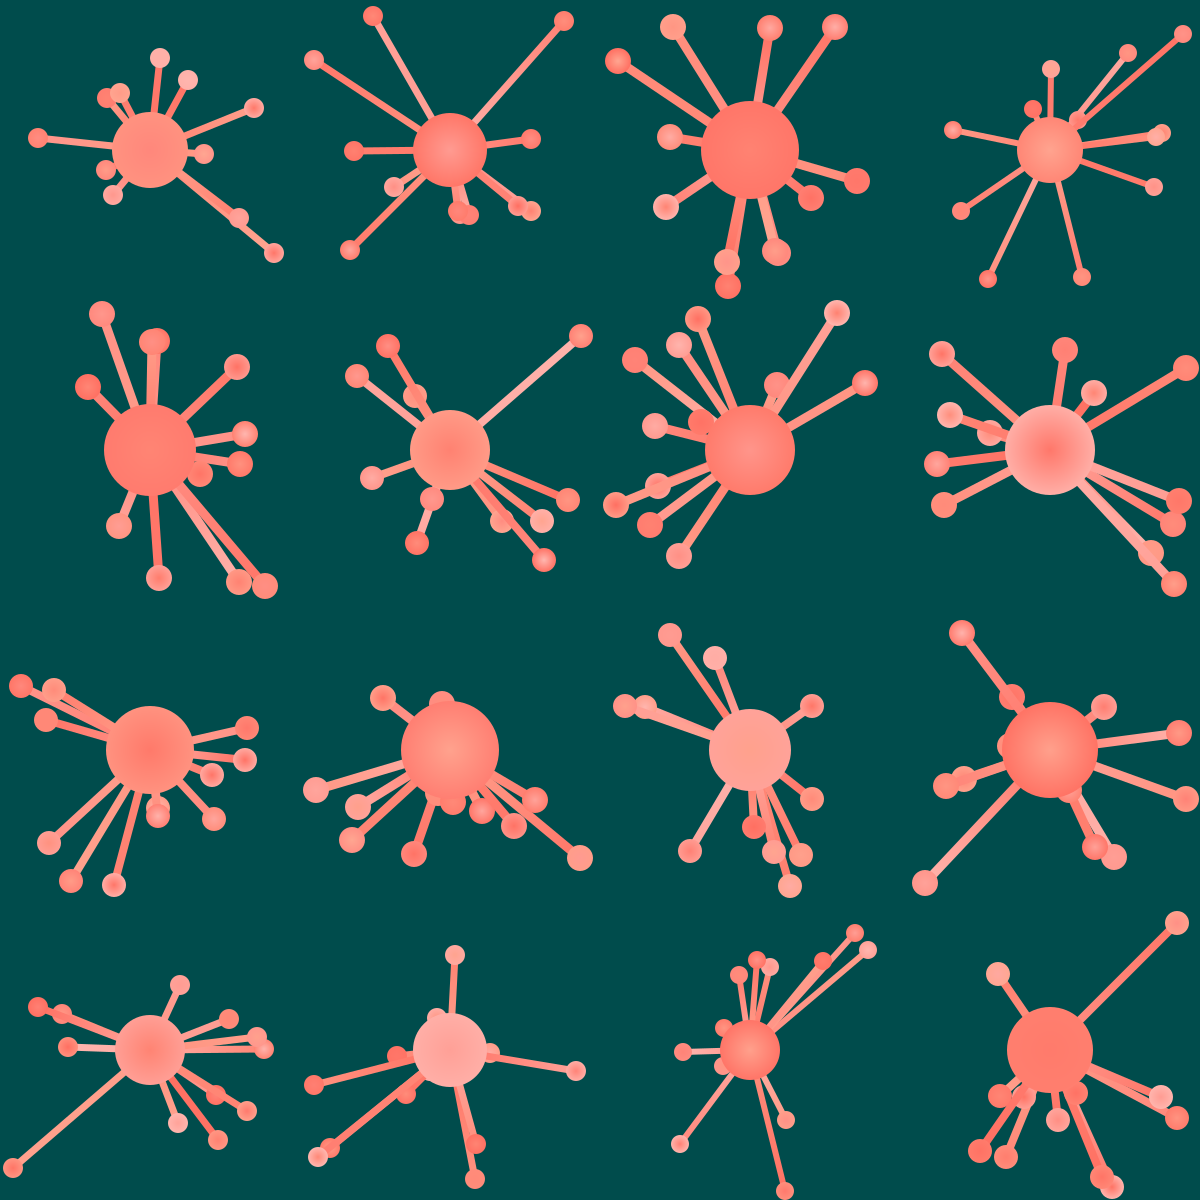
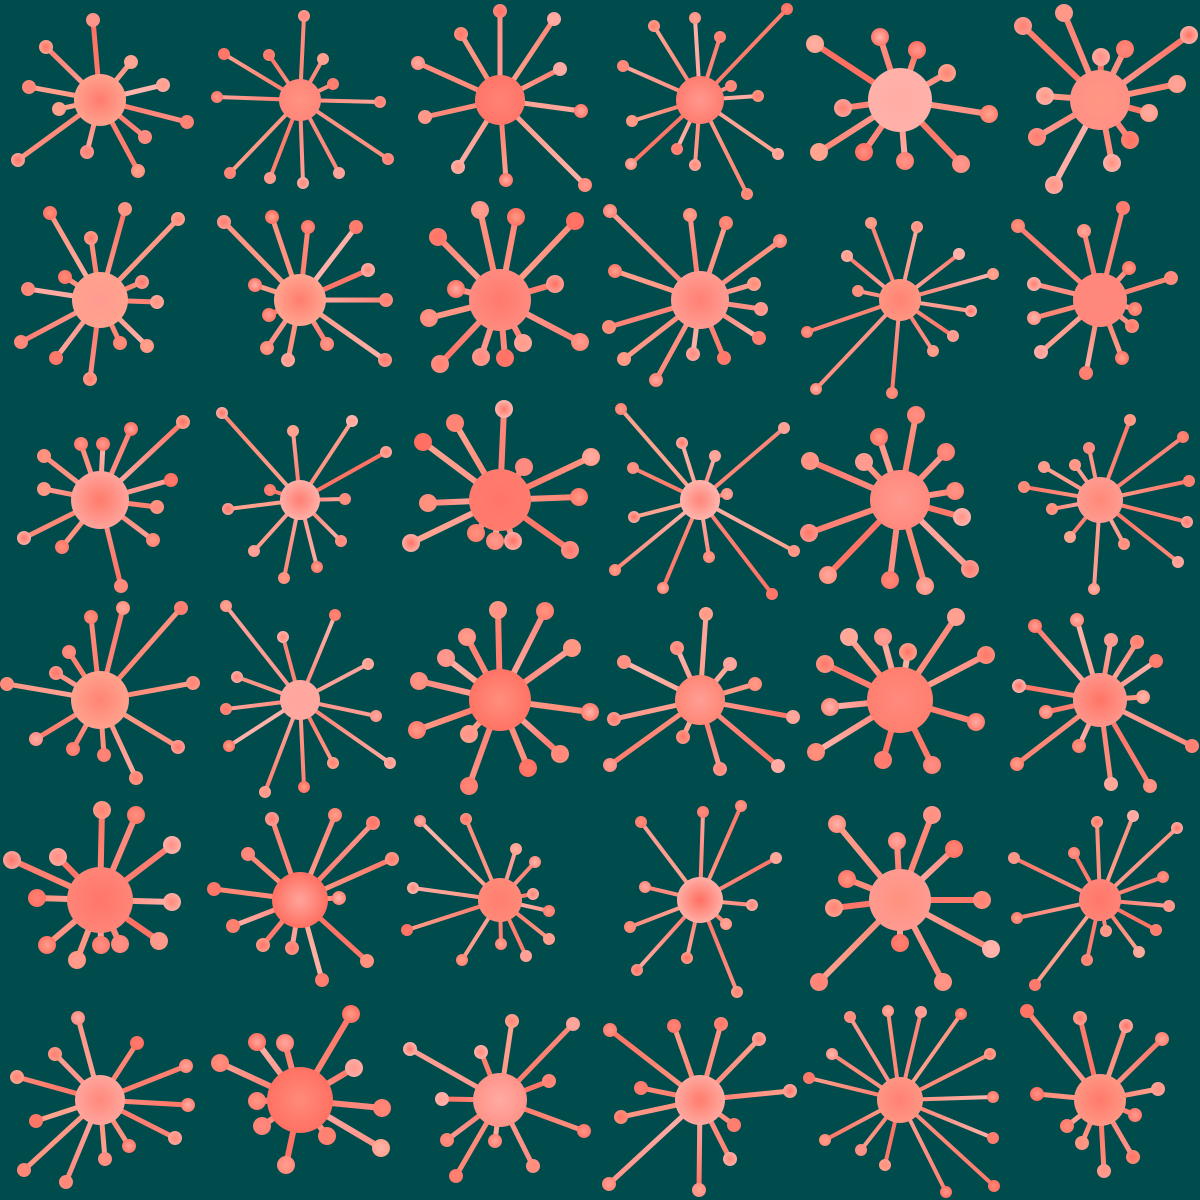
Improved coral_play -- no overlap.

diff --git a/coral-play/coral_play.py b/coral-play/coral_play.py
@@ -1,3 +1,6 @@
+from shapely.geometry import Point, LineString
+from shapely.ops import unary_union
+
 import cairo
 import math
 import random
@@ -17,21 +20,44 @@ DARK_TEAL = '#004c4c'
 
 SPACING = 1
 
+MAX_ATTEMPTS = 20
+
+
+def make_limb(width, height, ball_radius):
+    end_x = random.randint(-width // 2 + ball_radius,
+                           width // 2 - ball_radius)
+    end_y = random.randint(-height // 2 + ball_radius,
+                           height // 2 - ball_radius)
+    return (end_x, end_y)
+
+
 def polyp(ctx, x, y, width, height, color):
     min_dimension = min(width, height)
     center_x = x + int(width/2)
     center_y = y + int(width/2)
     radius = random.randint(int(min_dimension / 10), int(min_dimension / 6))
 
-    for _ in range(12):
-        line_width = radius // 5
-        ball_radius = int(line_width * 1.5)
+    line_width = radius // 5
+    ball_radius = int(line_width * 1.5)
+    center = Point(0, 0).buffer(radius)
+    existing_shapes = center.buffer(-0.1)
+    for _ in range(20):
+        for _ in range(MAX_ATTEMPTS):
+            (end_x, end_y) = make_limb(width, height, ball_radius)
+            ball = Point(end_x, end_y).buffer(ball_radius)
+            line = LineString([(0, 0), (end_x, end_y)]).buffer(line_width).difference(center)
+            limb = line.union(ball)
+            if not existing_shapes.intersects(limb):
+                break
+        else:
+            continue
 
+        existing_shapes = existing_shapes.union(limb)
+
+        # Draw line
         ctx.save()
         ctx.translate(center_x, center_y)
         ctx.move_to(0, 0)
-        end_x = random.randint(-width // 2 + ball_radius, width // 2 - ball_radius)
-        end_y = random.randint(-height // 2 + ball_radius, height // 2 - ball_radius)
         ctx.line_to(end_x, end_y)
         ctx.set_line_width(line_width)
         ctx.set_line_cap(cairo.LineCap.ROUND)
@@ -39,8 +65,8 @@ def polyp(ctx, x, y, width, height, color):
         add_gradient_stops(color, g)
         ctx.set_source(g)
         ctx.stroke()
-        # Ball at the end
 
+        # Draw ball at the end
         g = cairo.RadialGradient(end_x, end_y, 0, end_x, end_y, ball_radius)
         add_gradient_stops(color, g)
         ctx.set_source(g)
@@ -80,8 +106,8 @@ def main(filename="output.png"):
     ctx.rectangle(0, 0, IMG_WIDTH, IMG_HEIGHT)
     ctx.fill()
 
-    rows = 4
-    columns = 4
+    rows = 6
+    columns = 6
     cell_width = int(IMG_WIDTH / columns)
     cell_height = int(IMG_HEIGHT / rows)
     for y in range(0, IMG_HEIGHT, cell_height):
